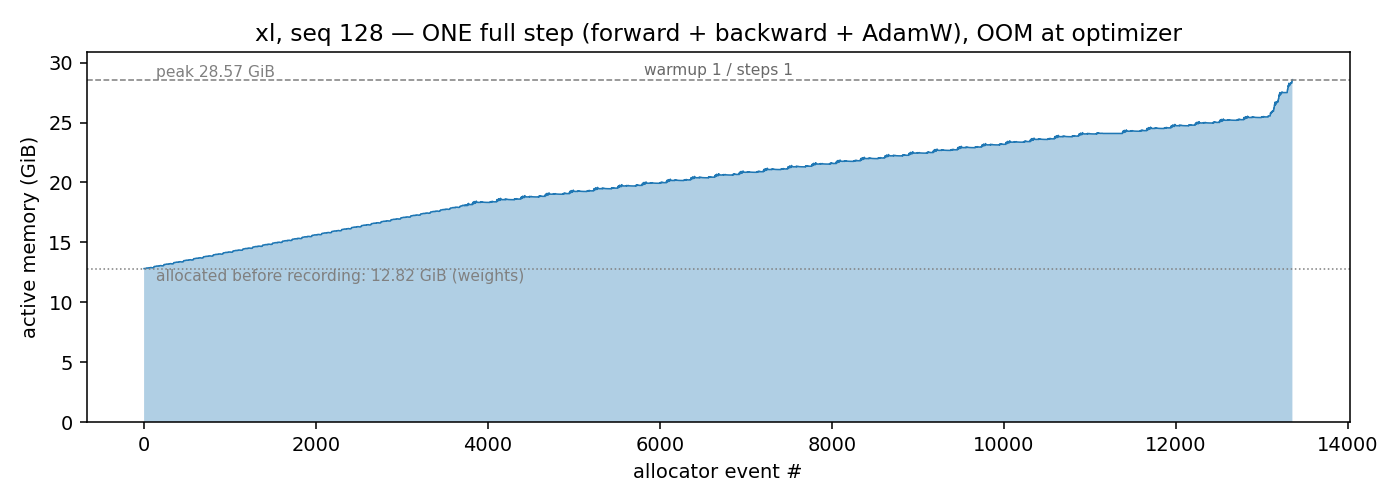
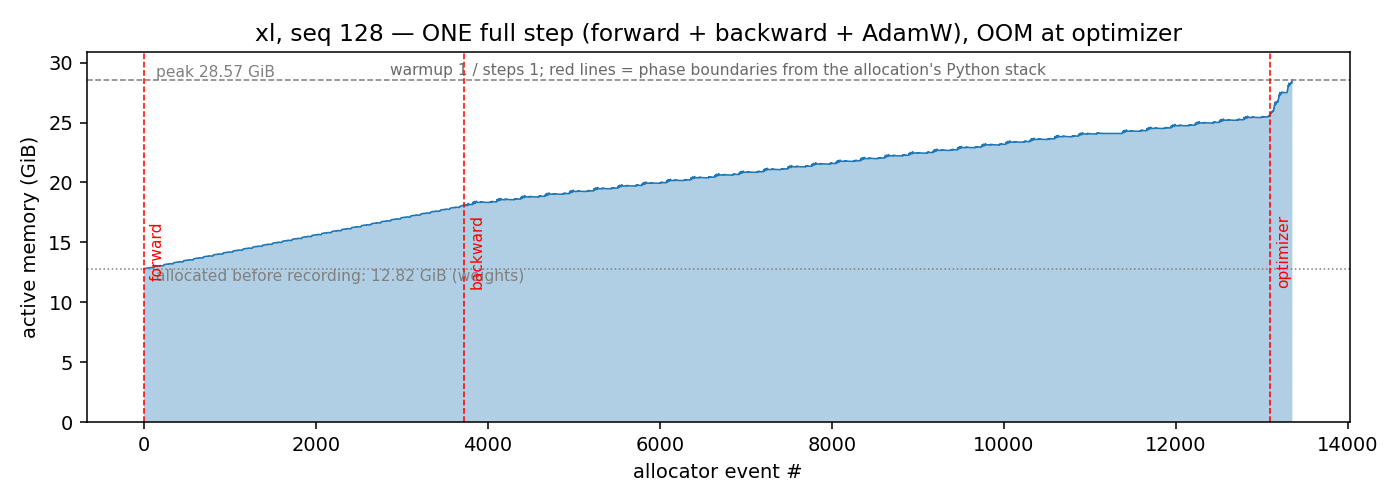
feat(bench): plot_snapshot 阶段红线（phases=True）；前向 128/2048 图改上下叠放

diff --git a/hw2/benchmark/memory.py b/hw2/benchmark/memory.py
@@ -32,7 +32,15 @@ def record_snapshot(path: str | None, max_entries: int = 1_000_000):
         print(f"显存快照已写出：{path}（拖进 https://pytorch.org/memory_viz 查看）")
 
 
-def plot_snapshot(pickle_path, out=None, *, title=None, subtitle=None):
+def _phase(e):
+    """按分配时的 Python 栈判断阶段：optimizer.py 在栈里 → optimizer；没有任何 .py 帧（autograd 工作线程）→ backward；否则 forward。"""
+    fr = [f for f in e["frames"] if f["filename"].endswith(".py")]
+    if any("optimizer" in f["filename"] for f in fr):
+        return "optimizer"
+    return "forward" if fr else "backward"
+
+
+def plot_snapshot(pickle_path, out=None, *, title=None, subtitle=None, phases=False):
     """把 _dump_snapshot 的 pickle 画成 active memory 曲线（和 memory_viz 同一份 alloc/free 事件）。
 
     横轴是分配事件序号不是时间。记录从预热后开始，所以曲线起点 = 那时已分配的权重。
@@ -45,9 +53,11 @@ def plot_snapshot(pickle_path, out=None, *, title=None, subtitle=None):
     tr = d["device_traces"][0]
     live = {}                    # addr -> size；记录开始前就活着的块不在 trace 里，靠 segments 末态反推
     base = sum(b["size"] for seg in d["segments"] for b in seg["blocks"] if b["state"] == "active_allocated")
-    cur, ys = 0, []
-    for e in tr:
+    cur, ys, bounds, last = 0, [], [], None
+    for i, e in enumerate(tr):
         if e["action"] == "alloc":
+            if phases and (ph := _phase(e)) != last:
+                bounds.append((i, ph)); last = ph
             live[e["addr"]] = e["size"]; cur += e["size"]
         elif e["action"] == "free_completed" and e["addr"] in live:
             cur -= live.pop(e["addr"])
@@ -60,6 +70,8 @@ def plot_snapshot(pickle_path, out=None, *, title=None, subtitle=None):
     ax.fill_between(range(len(ys)), ys, alpha=.35); ax.plot(ys, lw=.8)
     ax.axhline(peak, ls="--", c="gray", lw=.8); ax.text(len(ys) * .01, peak, f"peak {peak:.2f} GiB", va="bottom", fontsize=8, c="gray")
     ax.axhline(start / 2**30, ls=":", c="gray", lw=.8); ax.text(len(ys) * .01, start / 2**30, f"allocated before recording: {start/2**30:.2f} GiB (weights)", va="top", fontsize=8, c="gray")
+    for i, ph in bounds:                      # 阶段分界（红线）
+        ax.axvline(i, c="red", lw=.8, ls="--"); ax.text(i + len(ys) * .005, peak * .5, ph, c="red", fontsize=8, rotation=90, va="center")
     ax.set_xlabel("allocator event #"); ax.set_ylabel("active memory (GiB)"); ax.set_ylim(0, peak * 1.08)
     ax.set_title(title or pickle_path.stem)
     if subtitle:
